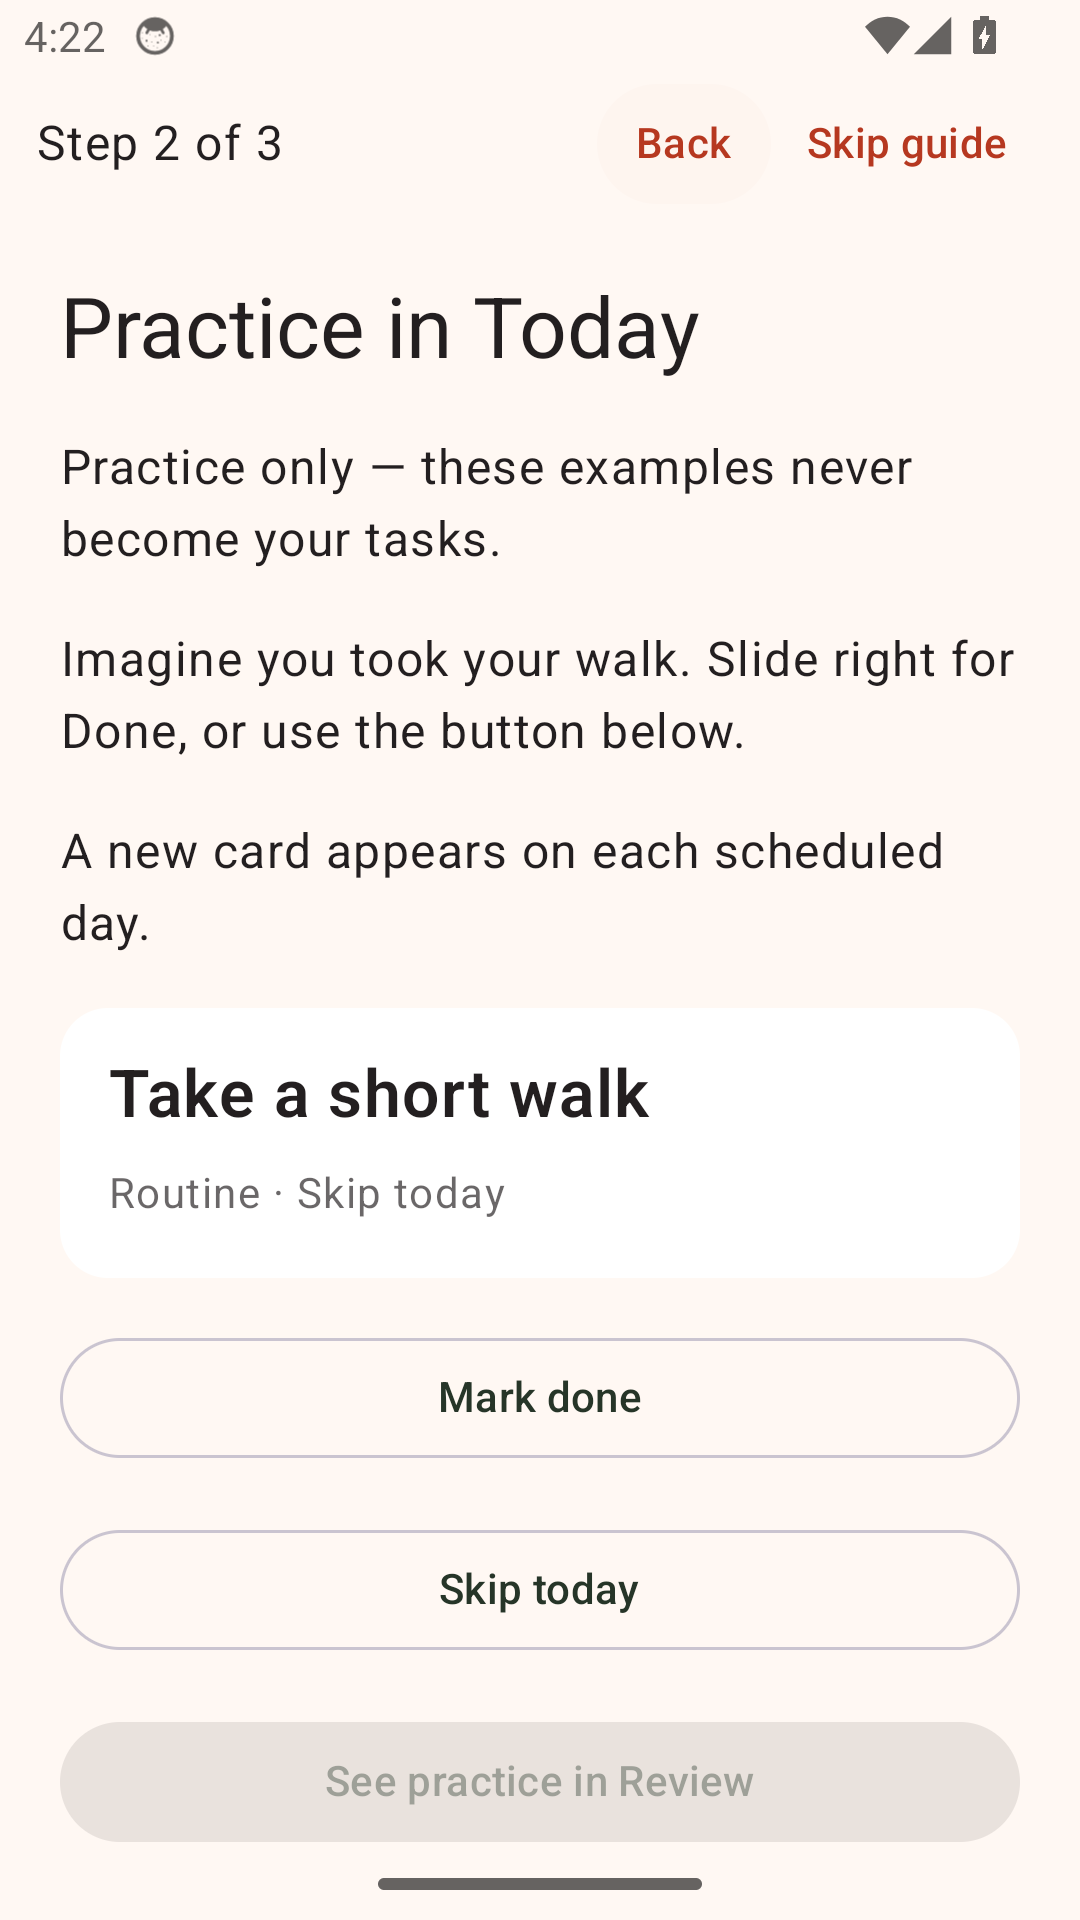
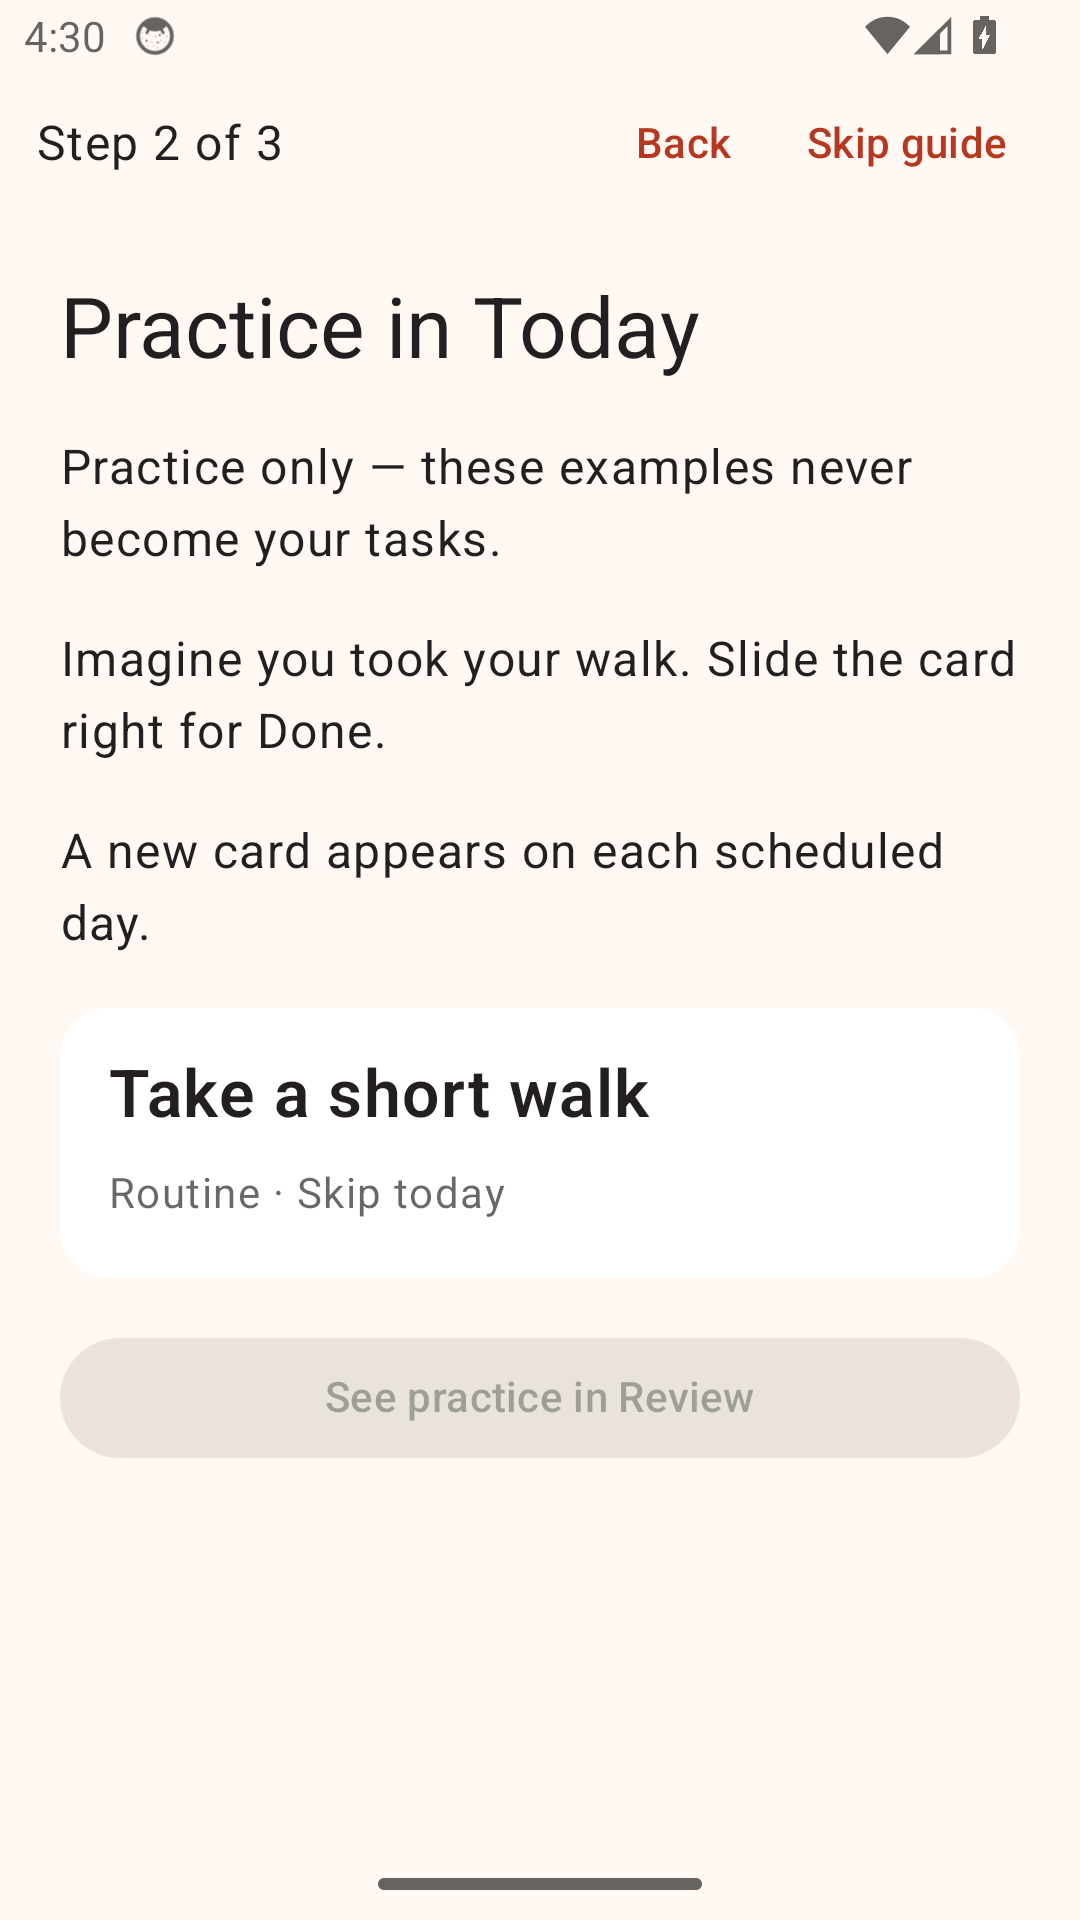
fix: teach sliding without outcome buttons in onboarding

diff --git a/apps/mobile/app/src/androidTest/java/org/wastingnotime/slidingtasks/FirstUseGuideTest.kt b/apps/mobile/app/src/androidTest/java/org/wastingnotime/slidingtasks/FirstUseGuideTest.kt
@@ -66,6 +66,19 @@ class FirstUseGuideTest {
             if (index < 2) click("guide-next-plan")
         }
     }
+    private fun slidePractice(right: Boolean) {
+        val card = compose.onAllNodes(hasTestTagPrefix("card-practice-")).fetchSemanticsNodes().single()
+        val tag = card.config[androidx.compose.ui.semantics.SemanticsProperties.TestTag]
+        // The exercise has no visible outcome buttons; the shared card still exposes accessibility actions.
+        compose.onNodeWithTag("practice-done").assertDoesNotExist()
+        compose.onNodeWithTag("practice-skip").assertDoesNotExist()
+        assertEquals(2, card.config[androidx.compose.ui.semantics.SemanticsActions.CustomActions].size)
+        compose.onNodeWithTag(tag).performScrollTo().performTouchInput {
+            if (right) swipeRight(durationMillis = 500) else swipeLeft(durationMillis = 500)
+        }
+        compose.waitUntil(5_000) { compose.onAllNodesWithTag(tag).fetchSemanticsNodes().isEmpty() }
+    }
+
     private fun assertNoUserTasks() {
         val state = LocalTaskStore(compose.activity).load()
         assertTrue(state.tasks.isEmpty()); assertTrue(state.cards.isEmpty()); assertTrue(state.events.isEmpty())
@@ -91,22 +104,19 @@ class FirstUseGuideTest {
         completePlanExercises()
         click("guide-practice")
         val first = compose.onAllNodes(hasTestTagPrefix("card-practice-")).fetchSemanticsNodes().single().config[androidx.compose.ui.semantics.SemanticsProperties.TestTag]
-        compose.onNodeWithTag(first).performTouchInput { swipeRight(durationMillis = 500) }
-        compose.waitUntil(5_000) { compose.onAllNodesWithTag("practice-result").fetchSemanticsNodes().isNotEmpty() }
+        slidePractice(right = true)
         compose.onNodeWithTag("practice-result").assertTextContains("Take a short walk", substring = true)
         click("practice-undo")
         compose.onNodeWithTag(first).assertExists()
-        click("practice-done")
+        slidePractice(right = true)
         screenshot("practice")
         compose.activityRule.scenario.recreate()
         compose.onNodeWithTag("practice-result").assertTextContains("Take a short walk", substring = true)
-        val second = compose.onAllNodes(hasTestTagPrefix("card-practice-")).fetchSemanticsNodes().single().config[androidx.compose.ui.semantics.SemanticsProperties.TestTag]
-        compose.onNodeWithTag(second).performTouchInput { swipeLeft(durationMillis = 500) }
-        compose.waitUntil(5_000) { compose.onAllNodesWithText("Skip task").fetchSemanticsNodes().isNotEmpty() }
-        click("practice-skip")
+        slidePractice(right = false)
+        slidePractice(right = false)
         click("practice-undo")
-        compose.onNodeWithTag("practice-done").assertExists()
-        click("practice-done")
+        compose.onAllNodes(hasTestTagPrefix("card-practice-")).assertCountEquals(1)
+        slidePractice(right = true)
         click("guide-review")
         compose.onNodeWithTag("review-week").assertExists()
         screenshot("review")
@@ -182,7 +192,7 @@ class FirstUseGuideTest {
         click("learn-guide")
         completePlanExercises()
         click("guide-practice")
-        click("practice-done")
+        slidePractice(right = true)
         compose.activityRule.scenario.recreate()
         compose.onNodeWithTag("practice-result").assertExists()
         compose.onNodeWithText("Review this week’s priorities").assertExists()
@@ -193,9 +203,9 @@ class FirstUseGuideTest {
         compose.onNodeWithTag("practice-result").assertDoesNotExist()
         compose.onNodeWithTag("practice-undo").assertDoesNotExist()
         compose.onNodeWithTag("guide-review").assertIsNotEnabled()
-        click("practice-done")
-        click("practice-skip")
-        click("practice-done")
+        slidePractice(right = true)
+        slidePractice(right = false)
+        slidePractice(right = true)
         click("guide-review")
         compose.onNodeWithTag("review-week").assertExists()
         compose.runOnUiThread { compose.activity.onBackPressedDispatcher.onBackPressed() }
@@ -267,9 +277,9 @@ class FirstUseGuideTest {
         compose.onNodeWithTag("guide-practice").performScrollTo()
         screenshot("practice-plan-pt-large-dark")
         click("guide-practice")
-        click("practice-done")
-        click("practice-skip")
-        click("practice-done")
+        slidePractice(right = true)
+        slidePractice(right = false)
+        slidePractice(right = true)
         click("guide-review")
         screenshot("review-pt-large-dark")
         click("finish-guide")

diff --git a/apps/mobile/app/src/main/java/org/wastingnotime/slidingtasks/MainActivity.kt b/apps/mobile/app/src/main/java/org/wastingnotime/slidingtasks/MainActivity.kt
@@ -1600,10 +1600,6 @@ private fun PracticeGuide(
                                     resolvePractice(command.cardId, if (command is CardCommand.Complete) CardStatus.DONE else CardStatus.DISMISSED)
                                 }
                             }
-                            OutlinedButton(onClick = { resolvePractice(card.id, CardStatus.DONE) },
-                                modifier = Modifier.fillMaxWidth().testTag("practice-done")) { Text(stringResource(R.string.mark_done)) }
-                            OutlinedButton(onClick = { resolvePractice(card.id, CardStatus.DISMISSED) },
-                                modifier = Modifier.fillMaxWidth().testTag("practice-skip")) { Text(card.skipScope.localizedLabel()) }
                         } else {
                             Text(stringResource(R.string.guide_practice_complete))
                         }

diff --git a/work/changes/guided-plan-exercises/implementation.md b/work/changes/guided-plan-exercises/implementation.md
@@ -28,6 +28,11 @@ navigation handler. Normal card progression, Undo and interrupted-session
 recovery within Step 2 are preserved. Review still ends with the completion
 button below all results.
 
+Step 2 teaches the gesture itself: visible Done/Skip buttons are removed, and
+English/Portuguese instructions direct the learner to slide right or left.
+Undo remains visible. The shared card retains its custom accessibility actions
+so assistive-technology users can resolve practice cards.
+
 Copy is available in English and Brazilian Portuguese. Exercise transitions
 reset the explanation's scroll position.
 
